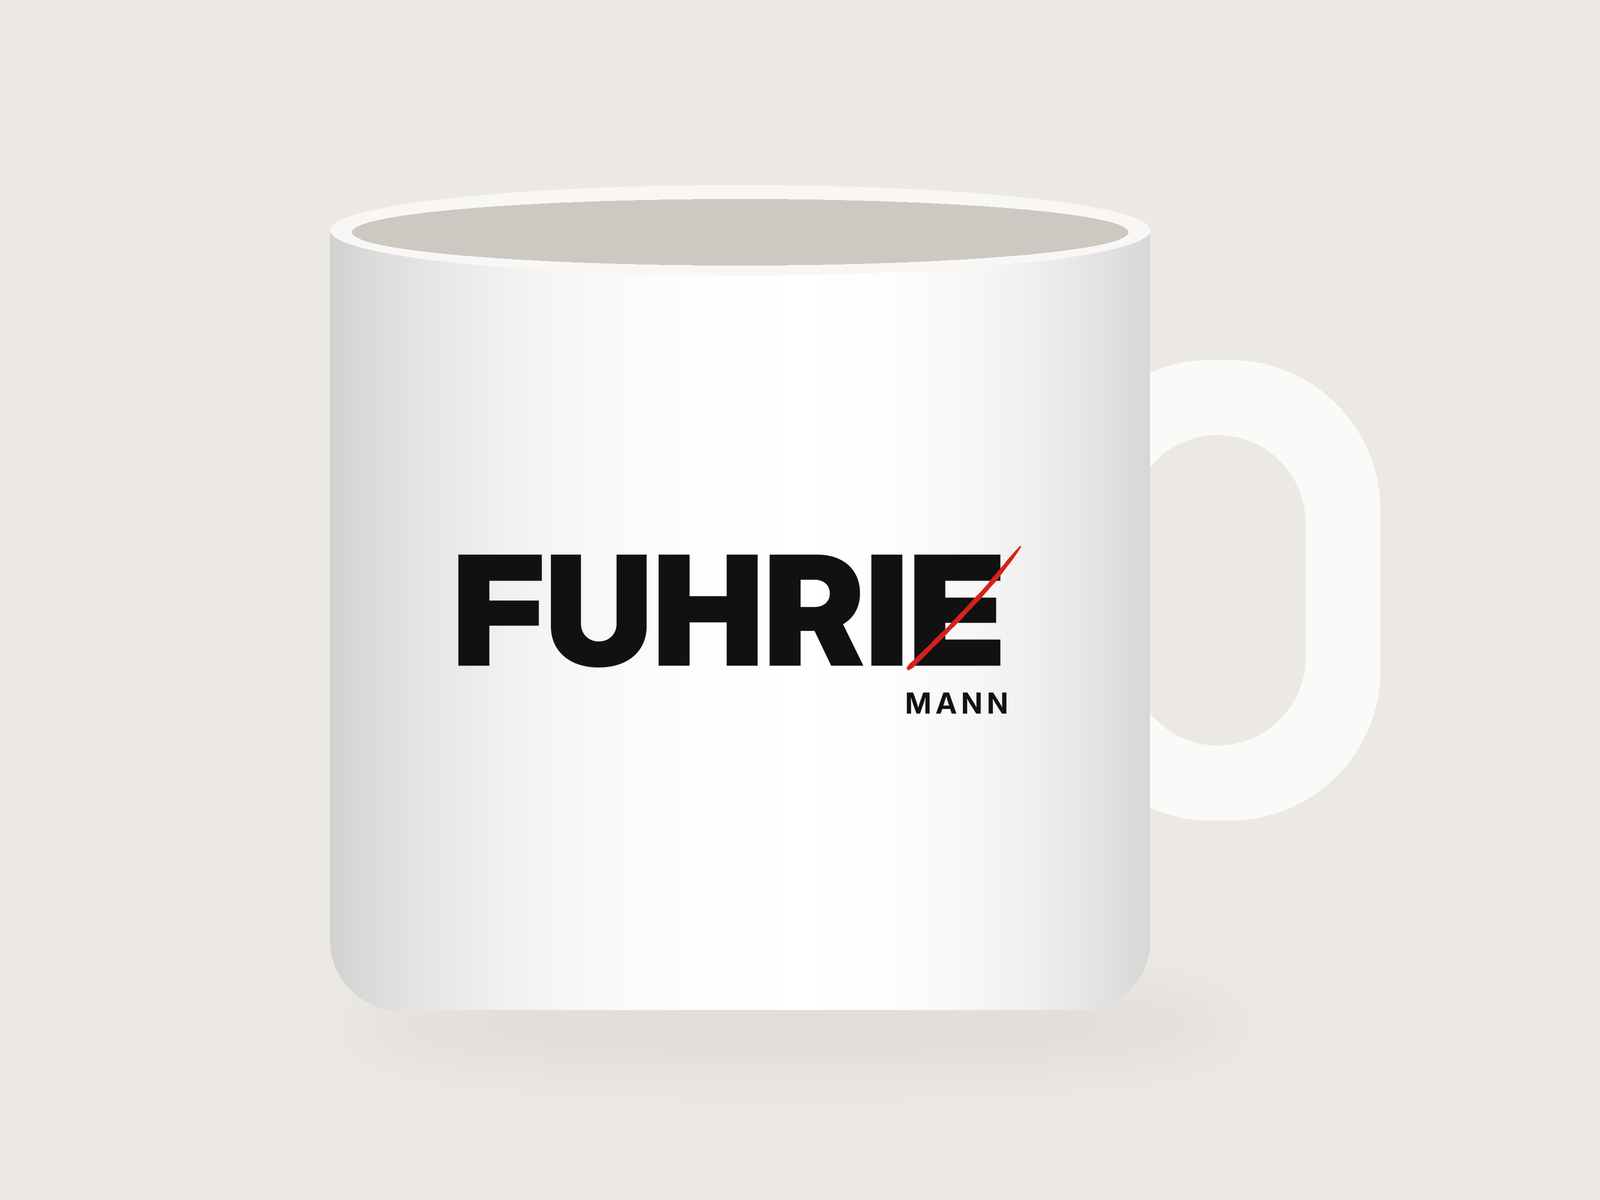
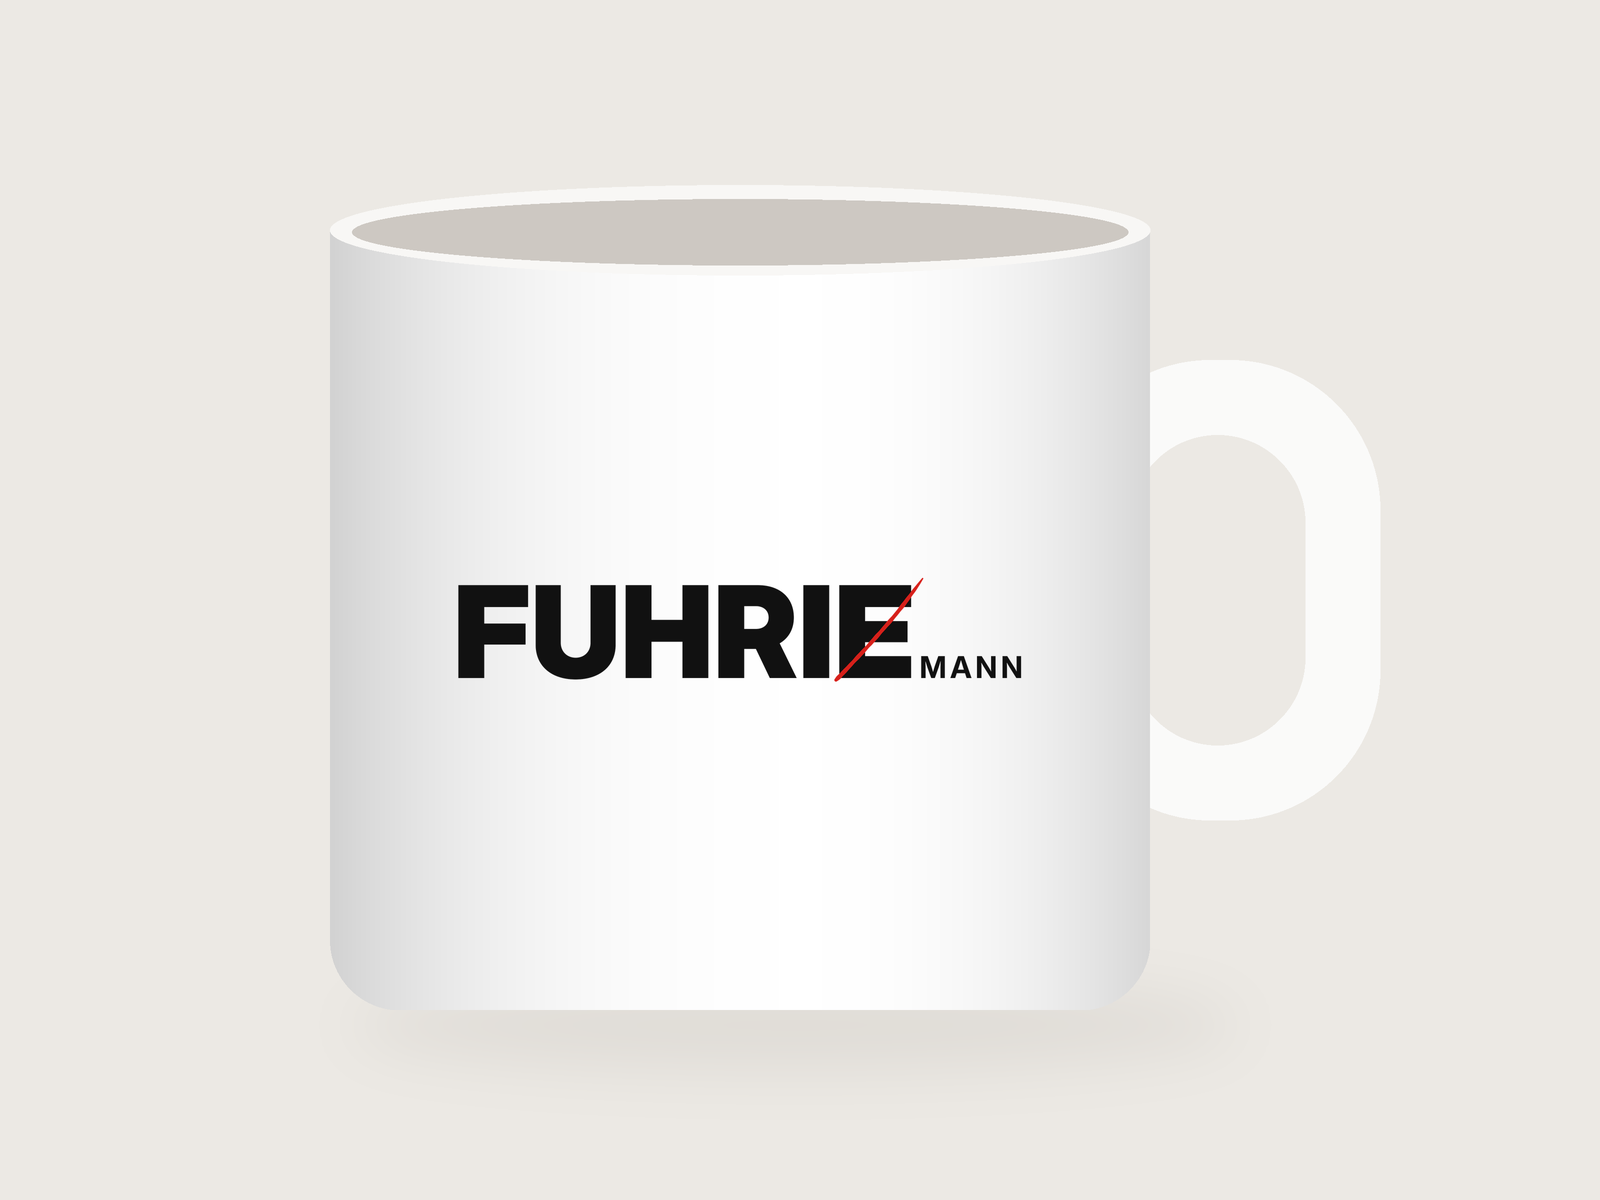
Tassen-Motiv: MANN rechts vom E auf der Linie des untersten E-Strichs
MANN übernimmt die Höhe des unteren E-Querstrichs und steht bündig auf
dessen Linie. Buchstaben-Abstände werden jetzt über die tatsächliche
Kontur (Pixelmaske) gemessen statt über die Laufweite.

Claude-Session: https://claude.ai/code/session_01Fo5s4GeALa4WJkLszh2Kke

Changed region(s): [[0.2812, 0.4625, 0.6562, 0.6167]]

diff --git a/tasse/generate.py b/tasse/generate.py
@@ -1,4 +1,5 @@
-"""Tassen-Motiv "FUHRIE" (E rot durchgestrichen) + kleines "MANN" unter dem E.
+"""Tassen-Motiv "FUHRIE" (E rot durchgestrichen) + kleines "MANN" rechts vom E,
+auf der Linie des untersten E-Strichs.
 
 Erzeugt:
   fuhrie-mann_transparent.png  – zum Hochladen beim Tassen-Druckservice
@@ -27,9 +28,8 @@ FINAL_WIDTH = 3000     # Breite des fertigen Motivs (px)
 MARGIN = 0.06          # Rand rund ums Motiv (Anteil der Breite)
 
 BIG_SIZE = 640 * SS
-SMALL_RATIO = 0.19     # Versalhöhe MANN im Verhältnis zu FUHRIE
-SMALL_TRACK = 0.16     # Laufweite MANN (em)
-GAP_RATIO = 0.24       # Abstand Grundlinie FUHRIE -> Oberkante MANN (x Versalhöhe)
+SMALL_TRACK = 0.12     # Laufweite MANN (em)
+GAP_FACTOR = 1.0       # Abstand E -> MANN (x Lücke zwischen I und E)
 
 
 def marker_stroke(draw, p0, p1, width, seed=7):
@@ -76,13 +76,44 @@ def tracked_width(text, font, track_px):
     return sum(font.getlength(c) for c in text) + track_px * (len(text) - 1)
 
 
+def glyph_mask(font, ch):
+    """Maske eines Buchstabens + Ursprung (Grundlinie links) in der Maske."""
+    size = font.size
+    m = Image.new("L", (size * 2, size * 2), 0)
+    origin = (size // 2, int(size * 1.4))
+    ImageDraw.Draw(m).text(origin, ch, font=font, fill=255, anchor="ls")
+    return m, origin
+
+
+def ink_bbox(font, ch):
+    """Tatsächliche Tinten-Box (l, t, r, b) relativ zum Ursprung auf der Grundlinie."""
+    m, (ox, oy) = glyph_mask(font, ch)
+    l, t, r, b = m.getbbox()
+    return l - ox, t - oy, r - ox, b - oy
+
+
+def bottom_bar_height(font):
+    """Höhe des untersten Querstrichs vom E (in px)."""
+    m, _ = glyph_mask(font, "E")
+    a = np.array(m)
+    l, t, r, b = m.getbbox()
+    col = a[:, r - 6] > 127                   # Spalte ganz rechts im Strich
+    rows = np.nonzero(col)[0]
+    bottom = rows.max()
+    top = bottom
+    while top > 0 and col[top - 1]:
+        top -= 1
+    return bottom - top + 1
+
+
 def build_motif():
     big = ImageFont.truetype(FONT_BIG, BIG_SIZE)
-    cap_h = -big.getbbox("H", anchor="ls")[1]
+    cap_h = -ink_bbox(big, "H")[1]
 
-    small_size = round(BIG_SIZE * SMALL_RATIO)
+    # Dicke des untersten E-Strichs messen -> Versalhöhe von MANN
+    bar_h = bottom_bar_height(big)
+    small_size = round(BIG_SIZE * bar_h / cap_h)
     small = ImageFont.truetype(FONT_SMALL, small_size)
-    small_cap = -small.getbbox("H", anchor="ls")[1]
     small_track = SMALL_TRACK * small_size
 
     W = int(BIG_SIZE * 6)
@@ -95,21 +126,21 @@ def build_motif():
 
     # Lage des E (Tinte)
     ex = ox + big.getlength("FUHRI")
-    el, et, er, eb = big.getbbox("E", anchor="ls")
+    el, et, er, eb = ink_bbox(big, "E")
     e_left, e_right = ex + el, ex + er
     e_top, e_bot = base + et, base + eb
     e_w, e_h = e_right - e_left, e_bot - e_top
 
-    # MANN klein, mittig unter dem E
-    mw = tracked_width("MANN", small, small_track)
-    m_cx = (e_left + e_right) / 2
-    m_base = base + GAP_RATIO * cap_h + small_cap
-    draw_tracked(d, m_cx - mw / 2, m_base, "MANN", small, small_track, BLACK)
+    # Lücke zwischen I und E (Tinte)
+    i_right = ox + big.getlength("FUHR") + ink_bbox(big, "I")[2]
+    gap = e_left - i_right
+
+    # MANN klein, rechts vom E, auf der Grundlinie = unterster E-Strich
+    m_left = e_right + GAP_FACTOR * gap - ink_bbox(small, "M")[0]
+    draw_tracked(d, m_left, base, "MANN", small, small_track, BLACK)
 
     # Roter Strich: von unten links nach oben rechts, nur über das E
     # (Start in der Lücke zwischen I und E, damit das I unberührt bleibt)
-    i_right = ox + big.getlength("FUHR") + big.getbbox("I", anchor="ls")[2]
-    gap = e_left - i_right
     p0 = (e_left - 0.35 * gap, e_bot + 0.02 * e_h)
     p1 = (e_right + 0.16 * e_w, e_top - 0.07 * e_h)
     marker_stroke(d, p0, p1, width=0.042 * cap_h)
